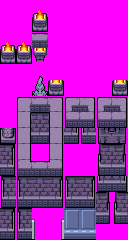
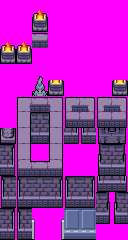
add boo room torch anim

Changed region(s): [[0.25, 0.175, 0.375, 0.2625]]

diff --git a/src/tileset_anims.c b/src/tileset_anims.c
@@ -1165,3 +1165,36 @@ static void BlendAnimPalette_BattleDome_FloorLightsNoBlend(u16 timer)
             sSecondaryTilesetAnimCallback = NULL;
     }
 }
+
+const u16 gTilesetAnims_RoomBoo_Torch_Frame0[] = INCBIN_U16("data/tilesets/secondary/room_boo/anim/torch/00.4bpp");
+const u16 gTilesetAnims_RoomBoo_Torch_Frame1[] = INCBIN_U16("data/tilesets/secondary/room_boo/anim/torch/01.4bpp");
+const u16 gTilesetAnims_RoomBoo_Torch_Frame2[] = INCBIN_U16("data/tilesets/secondary/room_boo/anim/torch/02.4bpp");
+const u16 gTilesetAnims_RoomBoo_Torch_Frame3[] = INCBIN_U16("data/tilesets/secondary/room_boo/anim/torch/03.4bpp");
+
+
+const u16 *const gTilesetAnims_RoomBoo_Torch[] = {
+    gTilesetAnims_RoomBoo_Torch_Frame0,
+    gTilesetAnims_RoomBoo_Torch_Frame1,
+    gTilesetAnims_RoomBoo_Torch_Frame2,
+    gTilesetAnims_RoomBoo_Torch_Frame3
+};
+
+static void QueueAnimTiles_RoomBoo_Torch(u16 timer)
+{
+    u16 i = timer % ARRAY_COUNT(gTilesetAnims_RoomBoo_Torch);
+    AppendTilesetAnimToBuffer(gTilesetAnims_RoomBoo_Torch[i], (u16 *)(BG_VRAM + TILE_OFFSET_4BPP(NUM_TILES_IN_PRIMARY + 0)), 4 * TILE_SIZE_4BPP);
+}
+
+static void TilesetAnim_RoomBoo(u16 timer)
+{
+    if (timer % 16 == 0) {
+        QueueAnimTiles_RoomBoo_Torch(timer / 16);
+    }
+}
+
+void InitTilesetAnim_RoomBoo(void)
+{
+    sSecondaryTilesetAnimCounter = sPrimaryTilesetAnimCounter;
+    sSecondaryTilesetAnimCounterMax = 256;
+    sSecondaryTilesetAnimCallback = TilesetAnim_RoomBoo;
+}

diff --git a/src/data/tilesets/headers.h b/src/data/tilesets/headers.h
@@ -828,7 +828,7 @@ const struct Tileset gTileset_RoomBoo =
     .palettes = gTilesetPalettes_RoomBoo,
     .metatiles = gMetatiles_RoomBoo,
     .metatileAttributes = gMetatileAttributes_RoomBoo,
-    .callback = NULL,
+    .callback = InitTilesetAnim_RoomBoo,
 };
 
 const struct Tileset gTileset_Room_cheve =

diff --git a/include/tileset_anims.h b/include/tileset_anims.h
@@ -32,4 +32,7 @@ void InitTilesetAnim_EliteFour(void);
 void InitTilesetAnim_BattleDome(void);
 void InitTilesetAnim_BattlePyramid(void);
 
+//Wah
+void InitTilesetAnim_RoomBoo(void);
+
 #endif // GUARD_TILESET_ANIMS_H
